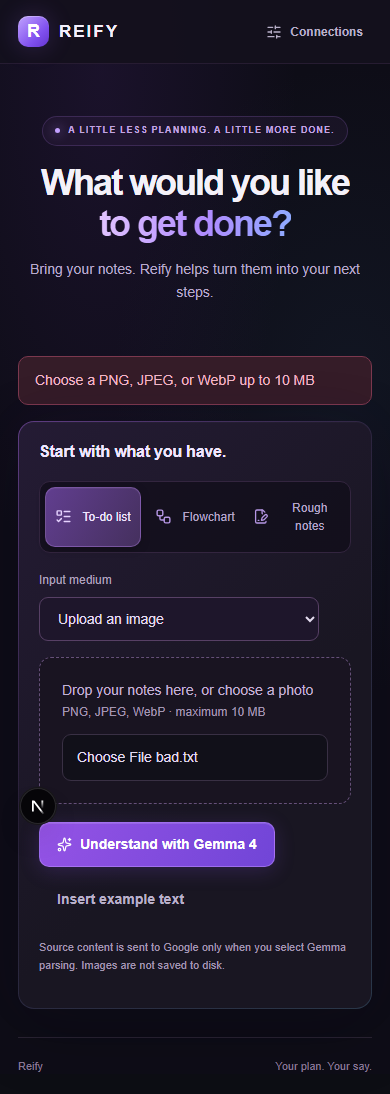
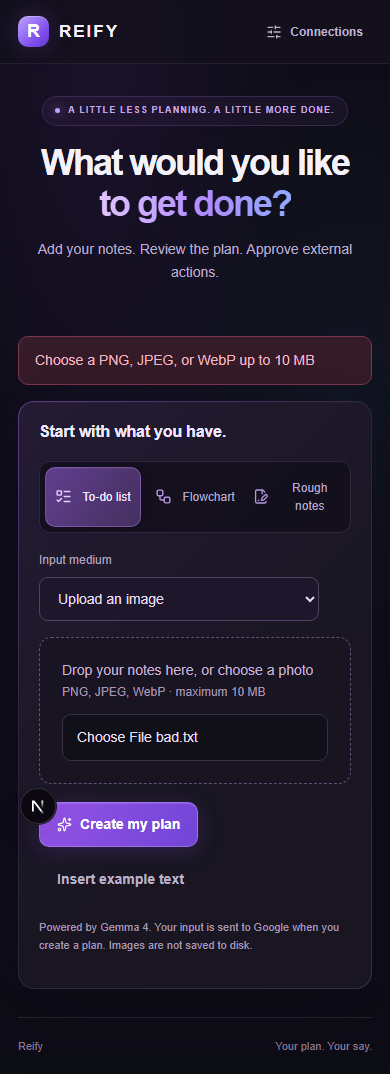
Bring capture action above the fold and clarify the starting experience

diff --git a/app/page.tsx b/app/page.tsx
@@ -203,11 +203,10 @@ export default function Home() {
               A little less planning. A little more done.
             </div>
             <h1>
-              What would you like
-              <br />
+              What would you like <br className="hero-break" />
               <span>to get done?</span>
             </h1>
-            <p>Bring your notes. Reify helps turn them into your next steps.</p>
+            <p>Add your notes. Review the plan. Approve external actions.</p>
           </div>
         )}
         {error && (
@@ -372,7 +371,7 @@ export default function Home() {
                   onClick={() => void parse()}
                 >
                   <Sparkles size={15} style={{ display: "inline" }} />{" "}
-                  {busy ? "Understanding…" : "Understand with Gemma 4"}
+                  {busy ? "Creating your plan…" : "Create my plan"}
                 </button>
                 <button
                   className="quiet"
@@ -382,8 +381,8 @@ export default function Home() {
                 </button>
               </div>
               <p className="muted">
-                Source content is sent to Google only when you select Gemma
-                parsing. Images are not saved to disk.
+                Powered by Gemma 4. Your input is sent to Google when you create
+                a plan. Images are not saved to disk.
               </p>
             </section>
           </div>

diff --git a/app/globals.css b/app/globals.css
@@ -998,3 +998,53 @@ textarea.action-field {
   --xy-background-color: #13111b;
   --xy-background-pattern-dots-color: #332a43;
 }
+/* Compact capture view: keep the first action within a laptop viewport. */
+@media (min-width: 901px) {
+  main:has(.composer) {
+    padding-top: 12px;
+  }
+  .hero {
+    padding: 10px 0 14px;
+  }
+  .hero h1 {
+    font-size: 40px;
+    margin: 13px 0 10px;
+    letter-spacing: -1.6px;
+  }
+  .hero-break {
+    display: none;
+  }
+  .hero p {
+    margin-bottom: 12px;
+    font-size: 14px;
+  }
+  .composer {
+    padding: 22px 28px;
+  }
+  .composer .tabs {
+    margin: 15px 0;
+  }
+  .composer .field[for="medium"] {
+    display: inline-block;
+    margin: 0 12px 0 0;
+    vertical-align: middle;
+  }
+  .composer #medium {
+    display: inline-block;
+    width: auto;
+    min-width: 190px;
+    padding: 9px 12px;
+    vertical-align: middle;
+  }
+  .composer textarea {
+    min-height: 110px;
+  }
+  .composer > .muted {
+    margin-bottom: 0;
+  }
+}
+@media (max-width: 900px) {
+  .hero {
+    padding-top: 10px;
+  }
+}

diff --git a/docs/TEST_REPORT.md b/docs/TEST_REPORT.md
@@ -87,3 +87,5 @@ Retained the requested dark visual direction with charcoal surfaces, violet acce
 Verification: lint PASS, typecheck PASS, 67 unit tests PASS, production build PASS, all 12 browser/API checks PASS (17.1 seconds). The added workspace check covers clarification blocking, view switching, friendly fields versus hidden JSON, native modal Escape behavior, focus return and mobile overflow. An initial test run exposed a settings focus-return issue; fixed it and verified the full suite. Adapter behavior was not changed; live Twinly verification is still pending and not claimed. No external calls/messages were made for UI verification.
 
 Visual polish follow-up: strengthened the dark palette with violet/blue ambient gradients, a gradient headline, brighter selected input tabs, a more distinct composer border and a stronger primary action. Tightened start-screen spacing and textarea height. Desktop/mobile synthetic screenshots were refreshed and visually reviewed; mobile overflow remained absent. Production build PASS; all 12 browser/API checks PASS (15.3 seconds). This pass changed presentation only; no live-provider behavior was tested or changed.
+
+Capture-screen refinement: moved the desktop hero/form upward, kept the heading on one line on wider screens, compacted input-medium selection and shortened the initial textarea. Renamed the interpretation button to Create my plan and clarified the next experience: Add your notes. Review the plan. Approve external actions. Gemma attribution and input-sharing disclosure remain visible. Checked the primary button without scrolling at 1280x720 and 1120x660 (bottom 633 CSS pixels); clean Chromium reported zero console/hydration errors. Mobile overflow check remained clear. Refreshed docs/ui-start.png and added docs/ui-laptop.png. Lint/typecheck/67 unit tests/production build PASS; all 12 browser/API checks PASS (17.3 seconds). The issue badge shown in the user's browser was not reproduced; no error suppression was added.

diff --git a/README.md b/README.md
@@ -35,7 +35,7 @@ The launcher installs exact lockfile dependencies on first run, creates private 
 
 ### Connect Gemma in one edit
 
-Open .env.local and add your own GEMINI_API_KEY from [Google AI Studio](https://aistudio.google.com/apikey). Keep GEMMA_MODEL set to gemma-4-26b-a4b-it. Save, stop the server, and run npm run launch again. Choose a format, enter text/upload an image, and click **Understand with Gemma 4**.
+Open .env.local and add your own GEMINI_API_KEY from [Google AI Studio](https://aistudio.google.com/apikey). Keep GEMMA_MODEL set to gemma-4-26b-a4b-it. Save, stop the server, and run npm run launch again. Choose a format, enter text/upload an image, and click **Create my plan**.
 
 Put real keys only in .env.local, never .env.example, chat or GitHub. The private file is ignored by Git. Verify access with npm run check:gemma when ready; it makes real text/image requests and can consume quota. Without a key, the UI and deterministic fixture tests remain usable; interpretation of your source requires model access.
 

diff --git a/docs/USER_GUIDE.md b/docs/USER_GUIDE.md
@@ -4,7 +4,7 @@
 
 Choose To-do list, Flowchart or Rough notes. Type/paste content, upload a PNG/JPEG/WebP, or draw a flowchart. Images are limited to 10 MB and 40 megapixels and prepared safely before inference. On the canvas, connect handles and double-click nodes or edges to edit labels.
 
-Click Understand with Gemma 4. The server interprets your source and validates a draft. **This does not execute actions.**
+Click Create my plan. The server interprets your source and validates a draft. **This does not execute actions.**
 
 For example: “Research three laptops for college. Ask my budget and priorities before recommending one. Do not buy anything.” A real local test of this synthetic input returned two tasks and one question. Actual output depends on the input and model.
 
